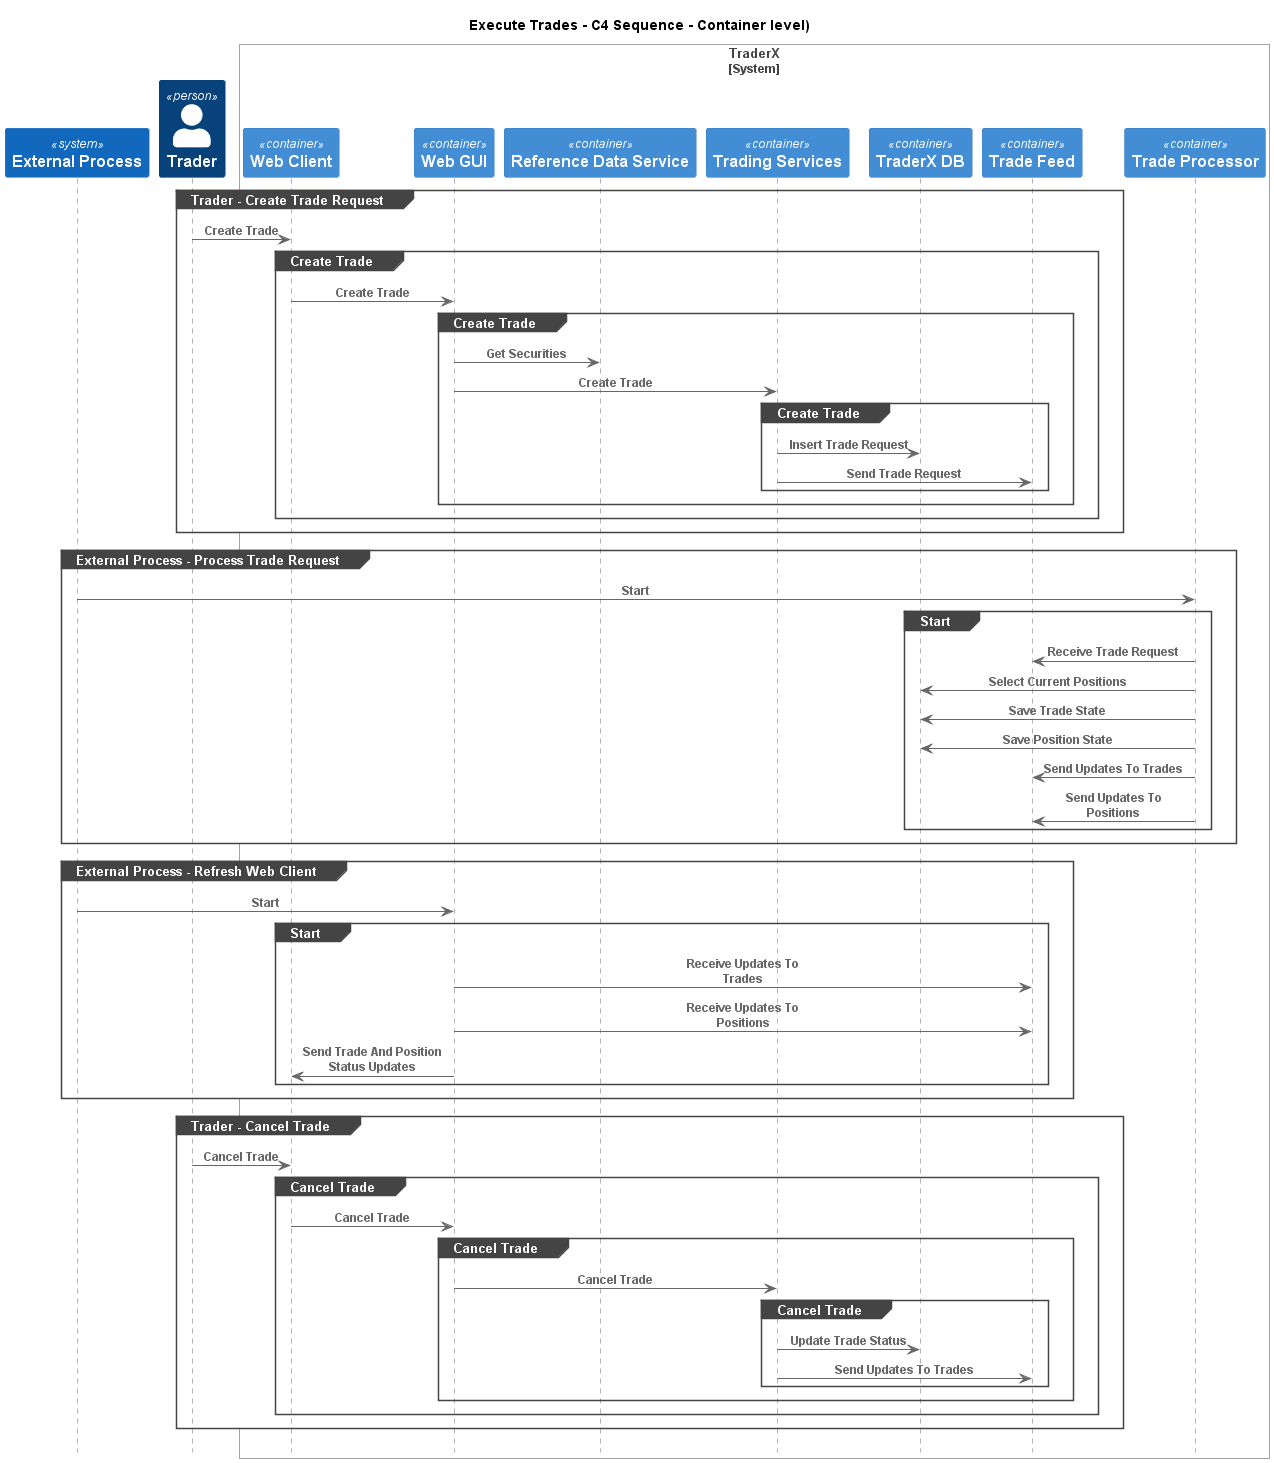
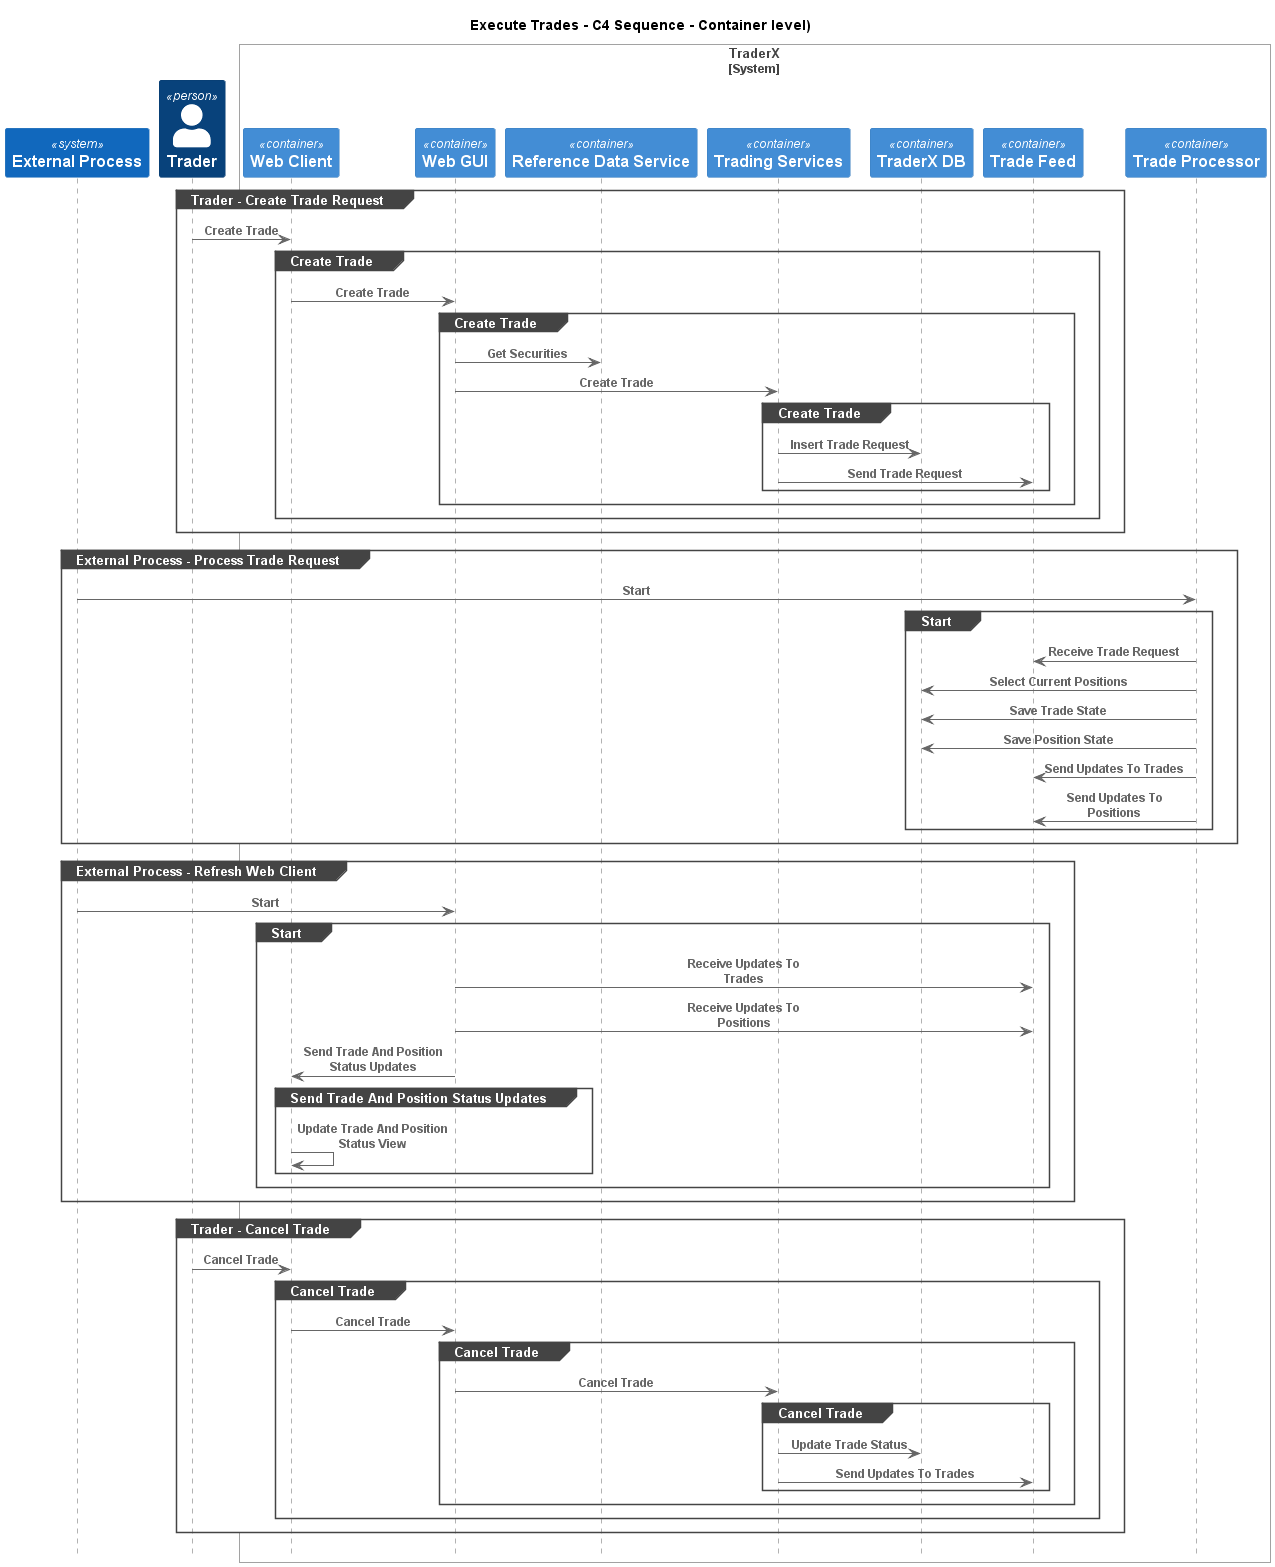
Fixed Interface inferrence issue where calls to their own interfaces by conteiners where not rendering in Sequence Diagrams

Changed region(s): [[0.0, 0.0, 1.0, 1.0], [0.5204, 0.5844, 0.6429, 0.7075], [0.4592, 0.5844, 0.4898, 0.6152]]

diff --git a/C4InterFlow/Structures/Flow.cs b/C4InterFlow/Structures/Flow.cs
@@ -5,6 +5,9 @@ namespace C4InterFlow.Structures
 {    
     public record Flow
     {
+        private static readonly Regex ComponentsRegex = new Regex(@"\.Components\.[^.]*");
+        private static readonly Regex ContainersRegex = new Regex(@"\.Containers\.[^.]*");
+
         public enum FlowType
         {
             None,
@@ -191,7 +194,7 @@ namespace C4InterFlow.Structures
 
             flows.ForEach(x =>
             {
-                if(x.Flows == null || x.Flows.Count == 0 || x.Owner.Contains(".Components."))
+                if(x.Flows == null || x.Flows.Count == 0 || ComponentsRegex.IsMatch(x.Owner))
                 {
                     x.Type = FlowType.None;
                 }
@@ -230,9 +233,9 @@ namespace C4InterFlow.Structures
             flows.ForEach(x =>
             {
                 if (x.Flows == null || 
-                x.Flows.Count == 0 || 
-                x.Owner.Contains(".Components.") || 
-                x.Owner.Contains(".Containers."))
+                x.Flows.Count == 0 ||
+                ComponentsRegex.IsMatch(x.Owner) ||
+                ContainersRegex.IsMatch(x.Owner))
                 {
                     x.Type = FlowType.None;
                 }
@@ -240,10 +243,26 @@ namespace C4InterFlow.Structures
         }
         private void InferContainerInterfaces(Flow flow, string currentScope)
         {
-            if(flow.Type == FlowType.Use)
+            if (flow.Type == FlowType.Use)
             {
-                flow.Expression = new Regex(@"\.Components\.[^.]*").Replace(flow.Expression, string.Empty);
-                flow.SetOwner(new Regex(@"\.Components\.[^.]*").Replace(flow.Owner, string.Empty), true);
+                var inferredExpression = ComponentsRegex.Replace(flow.Expression, string.Empty);
+                var inferredOwner = ComponentsRegex.Replace(flow.Owner, string.Empty);
+
+                if (flow.Expression.Equals(inferredExpression) && flow.Owner.Equals(inferredOwner))
+                {
+                    if (flow.Flows != null)
+                    {
+                        foreach (var segment in flow.Flows)
+                        {
+                            InferContainerInterfaces(segment, currentScope);
+                        }
+                    }
+
+                    return;
+                }
+
+                flow.Expression = inferredExpression;
+                flow.SetOwner(inferredOwner, true);
 
                 var newScope = Utils.GetContainerAlias(flow.Expression);
 
@@ -272,7 +291,7 @@ namespace C4InterFlow.Structures
             }
             else if (flow.Type == FlowType.Return || flow.Type == FlowType.ThrowException) 
             {
-                if(flow.Owner.Contains(".Components."))
+                if(ComponentsRegex.IsMatch(flow.Owner))
                 {
                     flow.Type = FlowType.None;
                 }
@@ -293,11 +312,28 @@ namespace C4InterFlow.Structures
         {
             if (flow.Type == FlowType.Use)
             {
-                flow.Expression = new Regex(@"\.Components\.[^.]*").Replace(flow.Expression, string.Empty);
-                flow.SetOwner(new Regex(@"\.Components\.[^.]*").Replace(flow.Owner, string.Empty), true);
+                var inferredExpression = ComponentsRegex.Replace(flow.Expression, string.Empty);
+                var inferredOwner = ComponentsRegex.Replace(flow.Owner, string.Empty);
 
-                flow.Expression = new Regex(@"\.Containers\.[^.]*").Replace(flow.Expression, string.Empty);
-                flow.SetOwner(new Regex(@"\.Containers\.[^.]*").Replace(flow.Owner, string.Empty), true);
+                inferredExpression = ContainersRegex.Replace(inferredExpression, string.Empty);
+                inferredOwner = ContainersRegex.Replace(inferredOwner, string.Empty);
+
+                if (flow.Expression.Equals(inferredExpression) && flow.Owner.Equals(inferredOwner))
+                {
+                    if (flow.Flows != null)
+                    {
+                        foreach (var segment in flow.Flows)
+                        {
+                            InferSoftwareSystemInterfaces(segment, currentScope);
+                        }
+                    }
+
+                    return;
+                }
+                    
+                flow.Expression = inferredExpression;
+                flow.SetOwner(inferredOwner, true);
+
 
                 var newScope = Utils.GetSoftwareSystemAlias(flow.Expression);
 
@@ -321,7 +357,7 @@ namespace C4InterFlow.Structures
             }
             else if (flow.Type == FlowType.Return || flow.Type == FlowType.ThrowException)
             {
-                if (flow.Owner.Contains(".Components.") || flow.Owner.Contains(".Containers."))
+                if (ComponentsRegex.IsMatch(flow.Owner) || ContainersRegex.IsMatch(flow.Owner))
                 {
                     flow.Type = FlowType.None;
                 }
